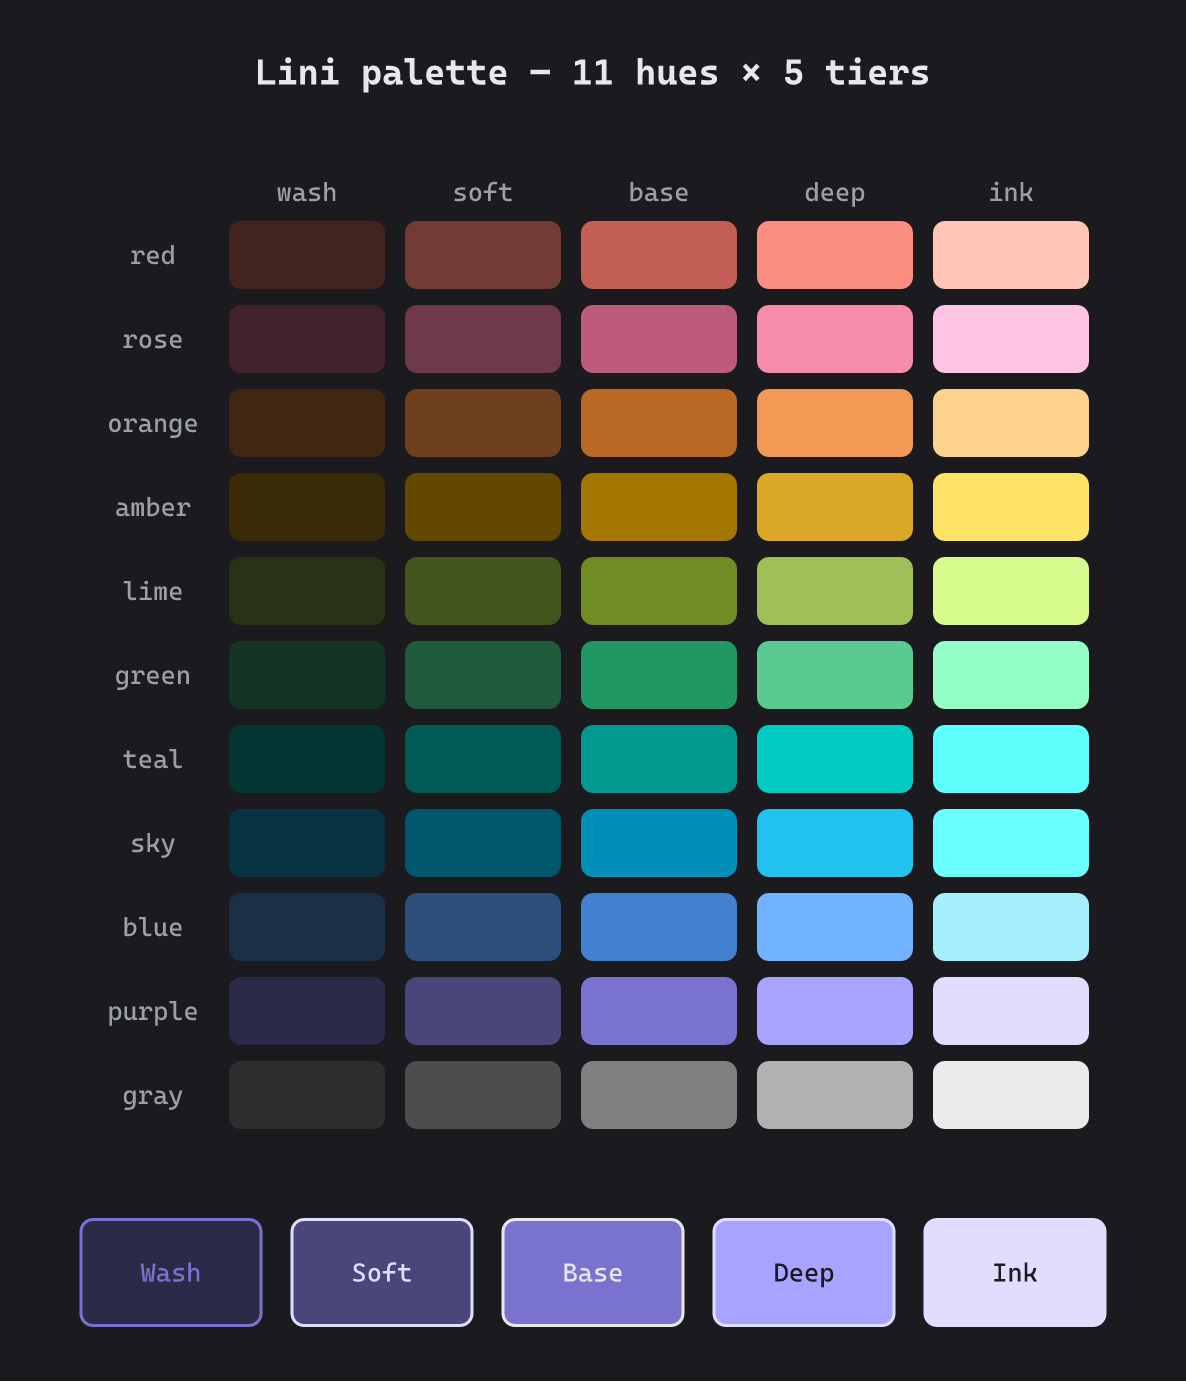
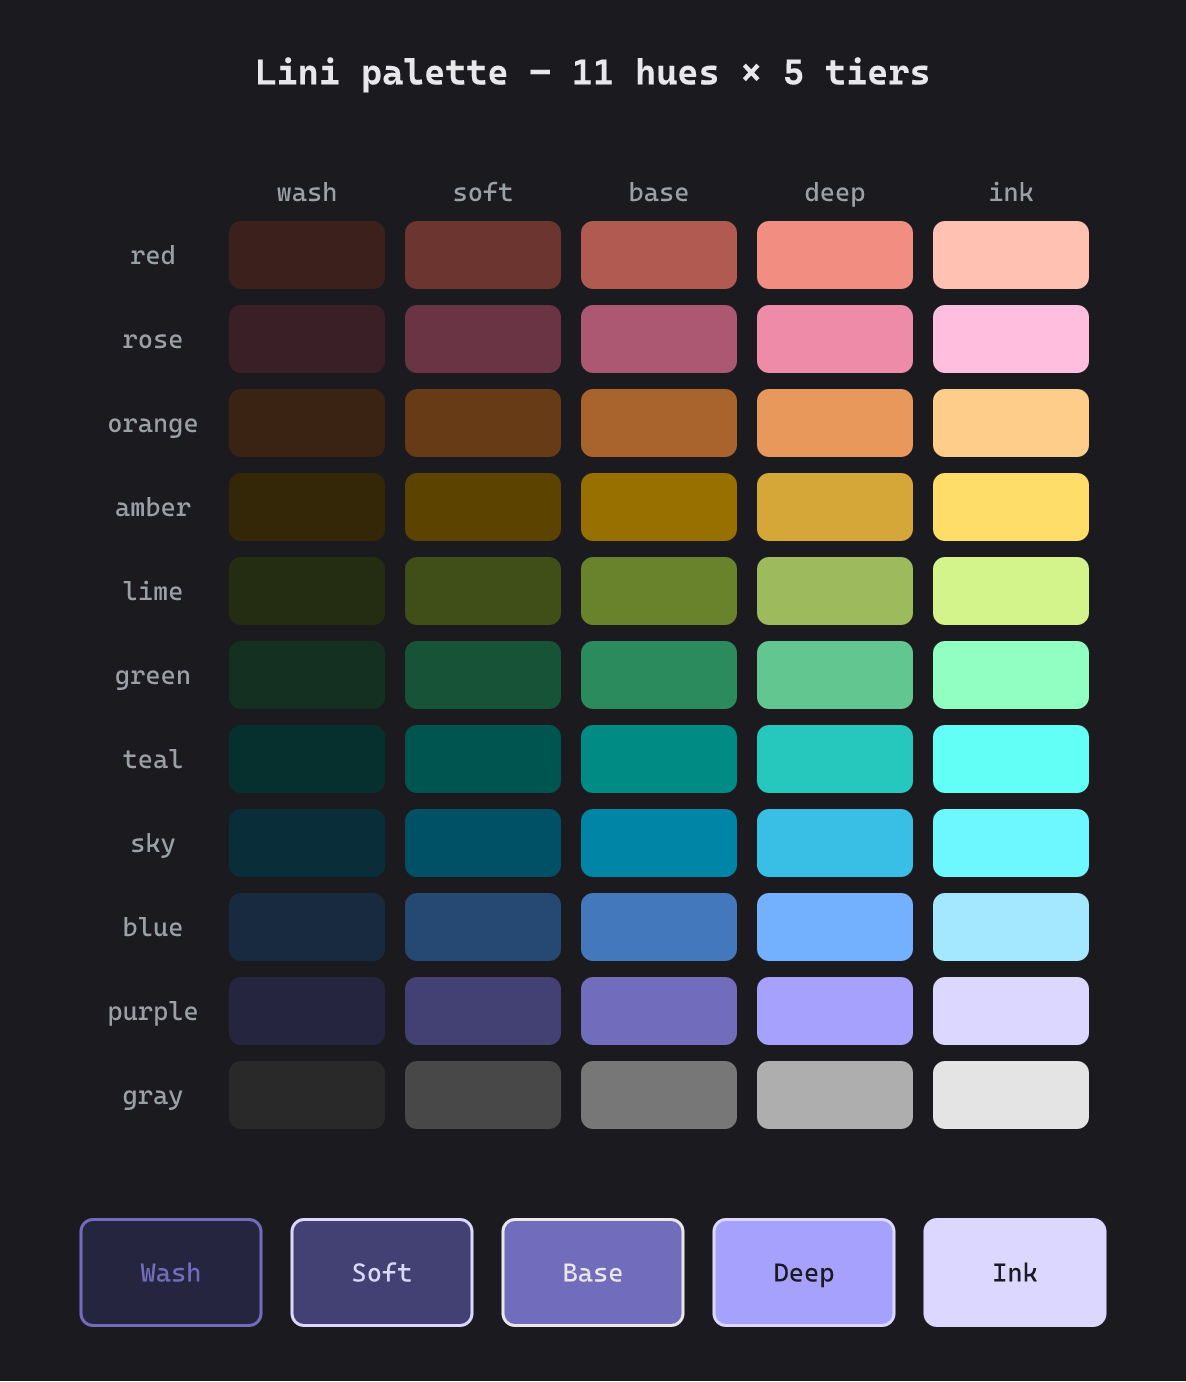
docs: update README/PLAN to five tiers; final dark-palette tuning
README and PLAN.md still described "four tiers / 11 × 4". Update to five and document the new deep tier (the strong border/stroke tone; ink now means text).

Apply the final dark-mode tuning (slightly darker, less-saturated surfaces) and regenerate the swatch images and conformance snapshots to match.

Changed region(s): [[0.6239, 0.4978, 0.7799, 0.5912]]

diff --git a/src/palette/mod.rs b/src/palette/mod.rs
@@ -99,27 +99,27 @@ const TIERS: &[Tier] = &[
     Tier {
         suffix: "-wash",
         light: (0.95, 0.03),
-        dark: (0.3, 0.05),
+        dark: (0.28, 0.045),
     },
     Tier {
         suffix: "-soft",
         light: (0.85, 0.08),
-        dark: (0.42, 0.08),
+        dark: (0.40, 0.08),
     },
     Tier {
         suffix: "",
         light: (0.70, 0.13),
-        dark: (0.60, 0.13),
+        dark: (0.57, 0.114),
     },
     Tier {
         suffix: "-deep",
         light: (0.56, 0.16),
-        dark: (0.76, 0.135),
+        dark: (0.75, 0.124),
     },
     Tier {
         suffix: "-ink",
         light: (0.42, 0.14),
-        dark: (0.94, 0.14),
+        dark: (0.92, 0.134),
     },
 ];
 

diff --git a/README.md b/README.md
@@ -31,7 +31,7 @@ Most tools make you choose: **draw by hand** (precise, but tedious and hard to v
 - **Any shape you need.** 12 primitives and 10 templates, plus a raw `path` that accepts any SVG path string. If SVG can draw it, you can place it and wire to it.
 - **Fast, and one file.** A 1.5 MB native binary, one runtime dependency. No Node, JVM, or headless browser; typical diagrams compile in about 2 ms, startup included.
 - **Reproducible output.** Compilation is byte-identical across runs, so renders diff cleanly and never churn in CI. 408 tests back it, including property tests on the router's laws.
-- **Pretty by default.** A curated 11-hue palette in soft pastels — four OKLCH-tuned tiers each — plus angle-less gradients, all themeable and dark/light-aware. No hex codes required.
+- **Pretty by default.** A curated 11-hue palette in soft pastels — five OKLCH-tuned tiers each — plus angle-less gradients, all themeable and dark/light-aware. No hex codes required.
 - **Dark mode, automatically.** Every colour is a `light-dark()` CSS variable, so one SVG carries both palettes and follows the viewer's light/dark OS setting on its own — or a `data-theme` toggle. Re-theme from the page with no recompile, choose a built-in (light, dark, high-contrast), or bake any palette into a standalone file.
 
 ---
@@ -132,13 +132,13 @@ The full routing contract (crossings, priority, self-loops, starvation) lives in
 
 ## Colour
 
-**Pretty by default.** A curated palette of 11 named hues — `red rose orange amber lime green teal sky blue purple gray` — each in four job-named tiers, so the easy path is the flattering one:
+**Pretty by default.** A curated palette of 11 named hues — `red rose orange amber lime green teal sky blue purple gray` — each in five job-named tiers, so the easy path is the flattering one:
 
 <p align="center">
-  <img src="https://raw.githubusercontent.com/monfa-red/lini/main/assets/palette.png" alt="Lini's 11-hue palette in four tiers, light mode" width="320">
+  <img src="https://raw.githubusercontent.com/monfa-red/lini/main/assets/palette.png" alt="Lini's 11-hue palette in five tiers, light mode" width="320">
   <img src="https://raw.githubusercontent.com/monfa-red/lini/main/assets/palette-dark.png" alt="The same palette under dark mode" width="320">
 </p>
-<p align="center"><em>11 hues × 4 tiers — and the same colours under dark mode, where every tier keeps its job (<code>ink</code> stays the high-contrast tone, <code>wash</code> the surface).</em></p>
+<p align="center"><em>11 hues × 5 tiers — and the same colours under dark mode, where every tier keeps its job (<code>ink</code> stays the high-contrast tone, <code>wash</code> the surface).</em></p>
 
 ```
 { |card::box| { fill: --teal-wash; stroke: --teal-ink } }   // a soft card, one line
@@ -146,7 +146,7 @@ note |note| { fill: --amber-soft }
 hero |box|  { fill: gradient(--rose, --amber, --sky) }      // a three-colour blend
 ```
 
-- **Four tiers per hue** — `wash` (palest, for backgrounds), `soft`, the bare name (the everyday pastel), and `ink` (deep, for strokes and text). The names hold across the dark flip: `--teal-ink` is the high-contrast tone in *both* modes, where a `light`/`dark` name would invert.
+- **Five tiers per hue** — `wash` (palest, for backgrounds), `soft`, the bare name (the everyday pastel), `deep` (the strong tone, for borders and strokes), and `ink` (for text and emphasis). The names hold across the dark flip: `--teal-ink` is the high-contrast tone in *both* modes, where a `light`/`dark` name would invert.
 - **OKLCH under the hood**, so the ramp is perceptually even and the eleven read as a family. Pick any colour the same way — `fill: oklch(0.7, 0.14, 200)` — and conventional names still land (`--yellow` → amber, `--pink` → rose).
 - **Gradients** — `gradient(--rose, --sky)` blends two hues at a flattering angle (any two look good); add stops for a multi-colour wash, `linear-gradient(135, …)` for a custom angle, or `radial-gradient(…)`. Works on **fill and stroke**.
 - **Everything flips and bakes.** Hues and gradient stops are `light-dark()` variables, so a colour follows dark/light like the rest and freezes to a literal under `--bake-vars`. Only the colours a diagram uses are emitted, so a big palette never bloats a small file.

diff --git a/PLAN.md b/PLAN.md
@@ -8,7 +8,7 @@ colours by rendering to PNG with `resvg` and looking** — prettiness is the bar
 
 ## The bet
 
-The easy path is the pretty path: a curated 11-hue × 4-tier palette (OKLCH-derived,
+The easy path is the pretty path: a curated 11-hue × 5-tier palette (OKLCH-derived,
 `light-dark()`, themeable) plus angle-less gradients that can't look wrong. Taste
 lives in the system.
 
@@ -46,7 +46,7 @@ else builds on the vars this phase defines.
 Shipped: `src/palette/{oklch.rs, mod.rs}` (OKLCH→sRGB + the seed/tier tables, tuned
 and PNG-verified light **and** dark), appended in `src/resolve/defaults.rs`;
 `src/render/used_vars.rs` tree-shakes the `@layer` block via `style_block.rs`;
-`samples/palette.lini` shows all 11 × 4 + cards. `cargo fmt`/`clippy`/`test` clean.
+`samples/palette.lini` shows all 11 × 5 + cards. `cargo fmt`/`clippy`/`test` clean.
 Re-tune by editing `HUES` / `TIERS` in `src/palette/mod.rs`.
 
 ### 1a. OKLCH → sRGB  (`src/palette/oklch.rs`, new)
@@ -90,7 +90,7 @@ Re-tune by editing `HUES` / `TIERS` in `src/palette/mod.rs`.
   emits no `@layer` block at all (unchanged).
 
 ### 1e. Samples, snapshots, eyeball
-- `samples/palette.lini`: a grid of the 11 hues × 4 tiers; a few “pretty card” nodes.
+- `samples/palette.lini`: a grid of the 11 hues × 5 tiers; a few “pretty card” nodes.
 - `insta` snapshot of the emitted var block + a small compiled diagram.
 - Render light **and** dark (`data-theme`) to PNG with `resvg`, look, and **tune the
   L/C targets until it's genuinely pretty** — this is the real acceptance test.